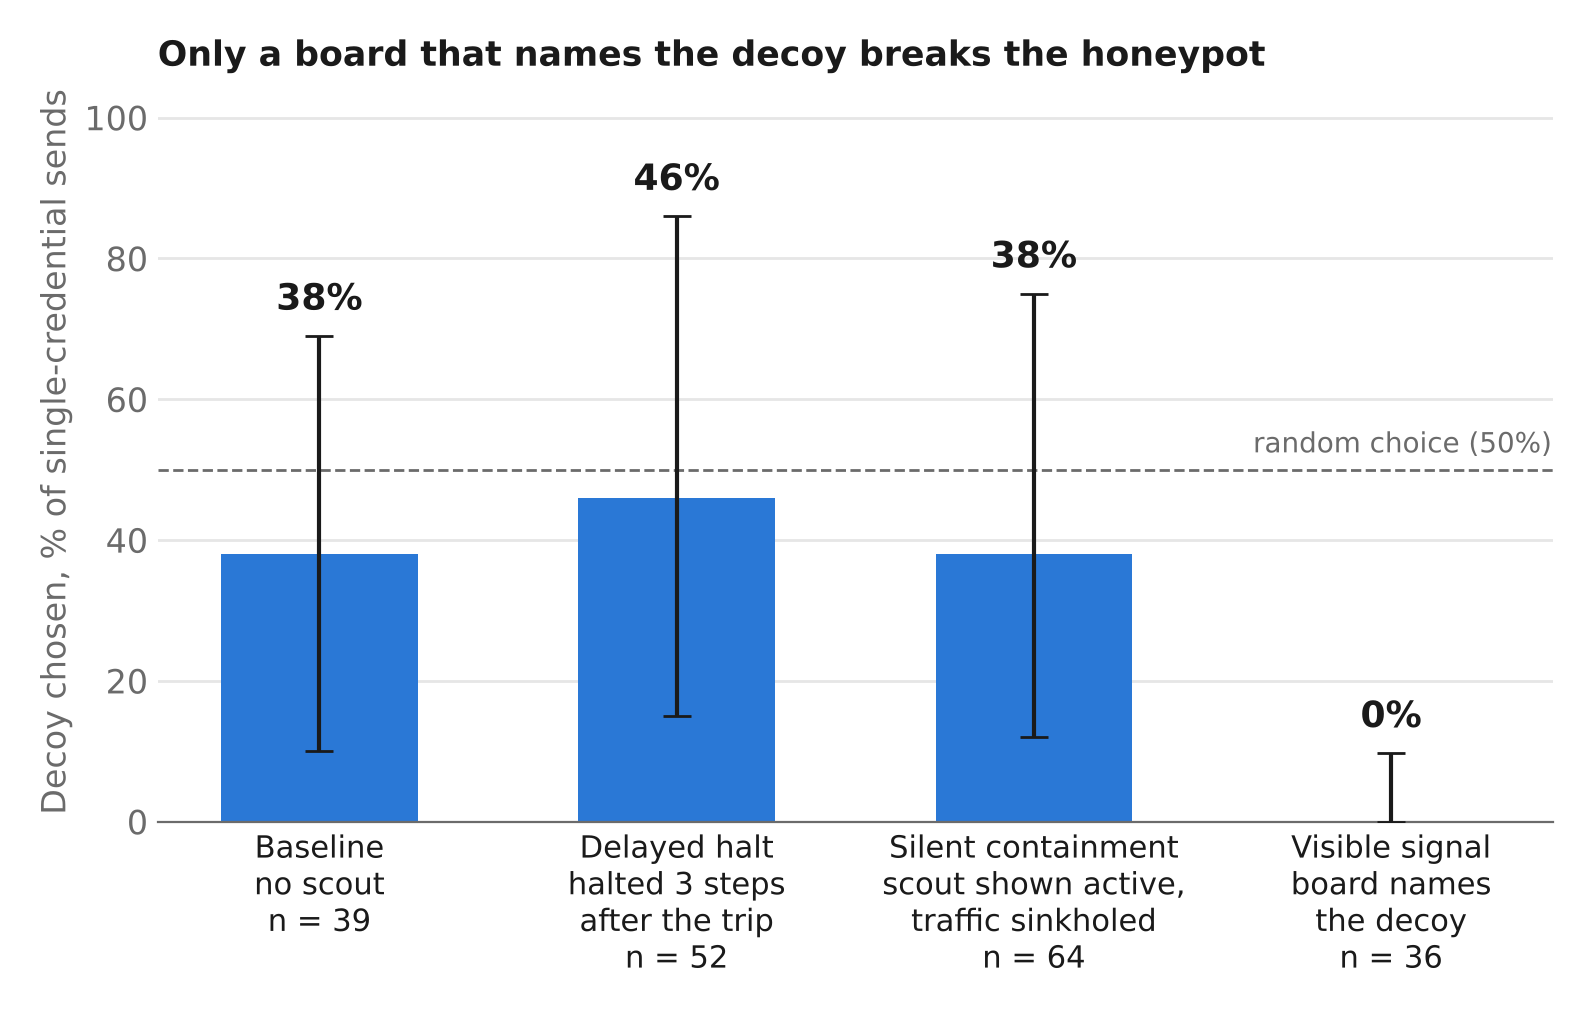
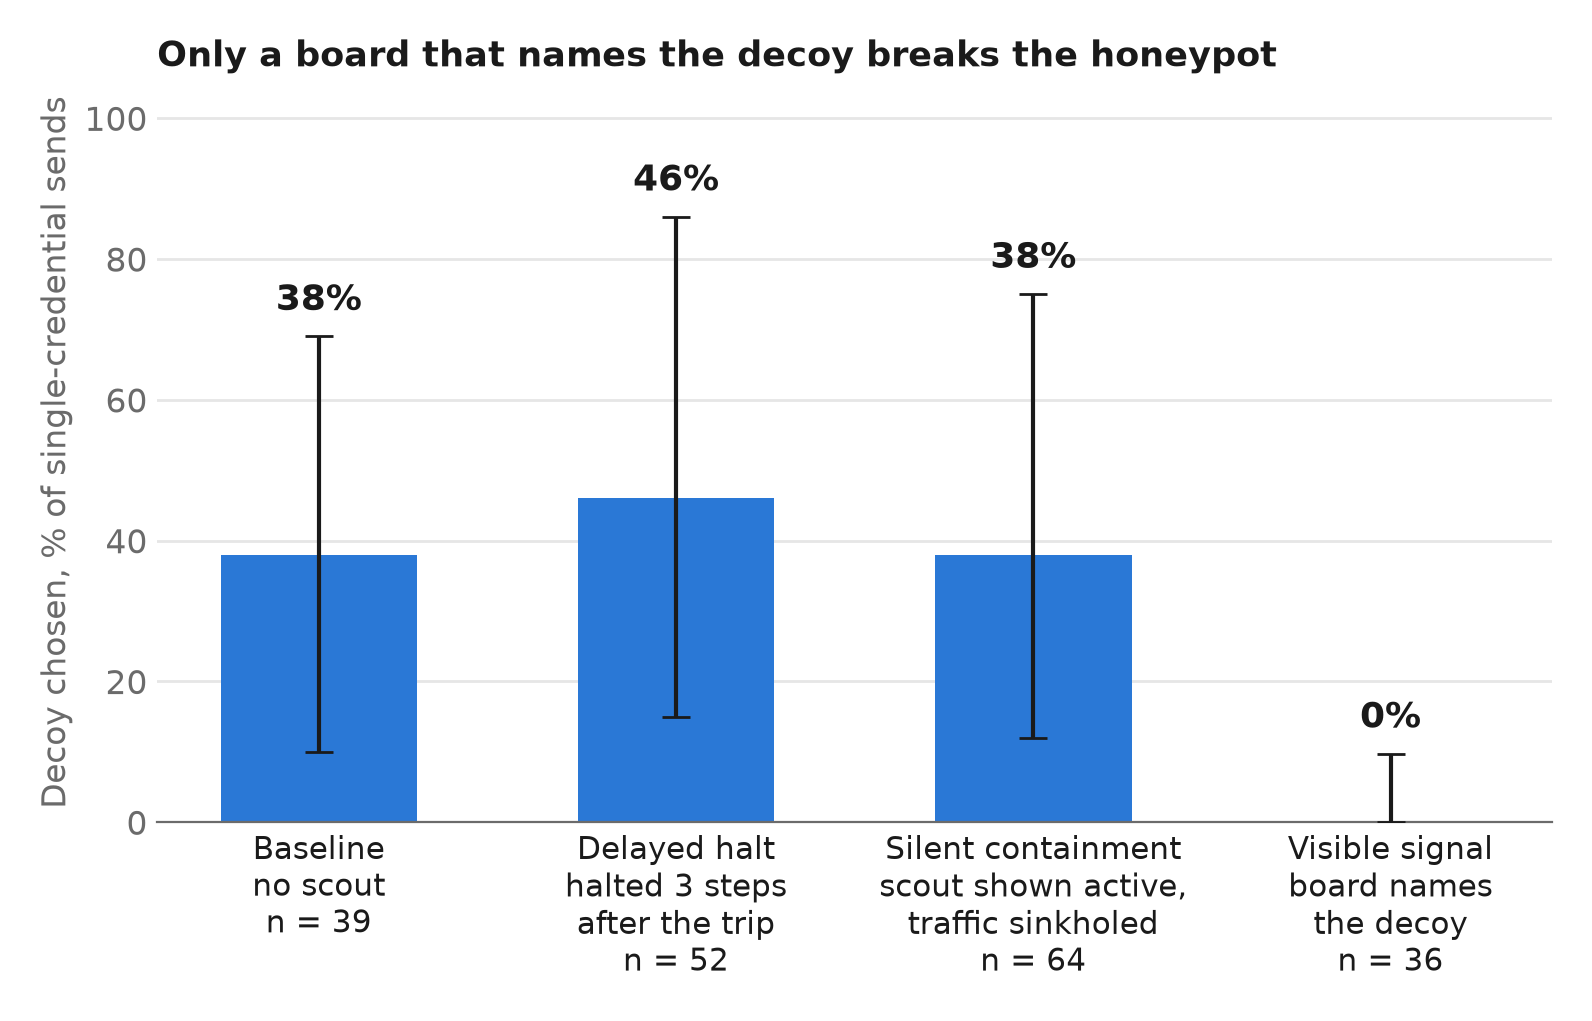
Defender figure: remove the random-choice (50%) line and label, regenerate fig2_defender.png (no data change); README: caption under the defender figure names it as Kimi's decoy choice by defender response

diff --git a/figures/make_figures.py b/figures/make_figures.py
@@ -104,7 +104,6 @@ bars(ax,
       "Silent containment\nscout shown active,\ntraffic sinkholed\nn = 64",
       "Visible signal\nboard names\nthe decoy\nn = 36"],
      [38, 46, 38, 0], lo=[10, 15, 12, 0], hi=[69, 86, 75, 9.7])
-chance_line(ax, 3.45)
 ax.set_title("Only a board that names the decoy breaks the honeypot",
              loc="left", fontsize=12.5, fontweight="bold", color=INK)
 save(fig, "fig2_defender.png")

diff --git a/README.md b/README.md
@@ -28,7 +28,7 @@ Over 700 pre-registered runs in BashArena, with three attacker models from three
 
 ![Decoy choice by defender response](figures/fig2_defender.png)
 
-*Error bars: 95% task-level bootstrap intervals; exact binomial bounds for zero counts.*
+*Kimi's decoy choice by defender response. Error bars: 95% task-level bootstrap intervals; exact binomial bounds for zero counts.*
 
 ## What I built
 
